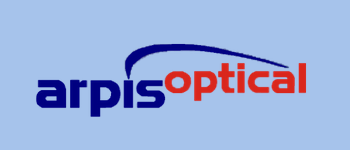
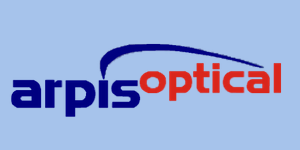
Adding new pages
Adding:
3 new thumbnails

Update:
index - new portfolio buttons

Fixed:
Quandart.png - wrong size
Arpis.png - wrong size

Changed region(s): [[0.03, 0.2933, 0.96, 0.8], [0.45, 0.32, 0.48, 0.3467]]

diff --git a/index.html b/index.html
@@ -214,8 +214,6 @@
                             <a href="http://www.arpis-optical.pl/" class="portfolio__item-www" target="_blank">WWW</a>
                             <a href="http://www.arpis-optical.pl/" class="portfolio__item-mobileLink"
                                 target="_blank"></a>
-                                                        <a href="https://github.com/tomkutnik/arpis#readme" class="portfolio__item-git"
-                                target="_blank">GIT</a>
                         </div>
                     </div>
                     <div class="portfolio__item portfolio__idea">
@@ -225,6 +223,36 @@
                             <a href="https://github.com/tomkutnik/rome" class="portfolio__item-git"
                                 target="_blank">GIT</a>
                             <a href="https://tomkutnik.github.io/rome/" class="portfolio__item-mobileLink"
+                                target="_blank"></a>
+                        </div>
+                    </div>
+                    <div class="portfolio__item portfolio__idea">
+                        <div class="portfolio__item-img"><img src="./src/thumbnails/wwSwap.png" />
+                            <a href="https://tomkutnik.github.io/wordWorldStart/" class="portfolio__item-www"
+                                target="_blank">WWW</a>
+                            <a href="https://github.com/tomkutnik/wordWorldStart" class="portfolio__item-git"
+                                target="_blank">GIT</a>
+                            <a href="https://tomkutnik.github.io/wordWorldStart/" class="portfolio__item-mobileLink"
+                                target="_blank"></a>
+                        </div>
+                    </div>
+                    \<div class="portfolio__item portfolio__idea">
+                        <div class="portfolio__item-img"><img src="./src/thumbnails/shoppingList.png" />
+                            <a href="https://tomkutnik.github.io/shoppingList/" class="portfolio__item-www"
+                                target="_blank">WWW</a>
+                            <a href="https://github.com/tomkutnik/shoppingList" class="portfolio__item-git"
+                                target="_blank">GIT</a>
+                            <a href="https://tomkutnik.github.io/shoppingList/" class="portfolio__item-mobileLink"
+                                target="_blank"></a>
+                        </div>
+                    </div>
+                    <div class="portfolio__item portfolio__idea">
+                        <div class="portfolio__item-img"><img src="./src/thumbnails/wordWorld.png" />
+                            <a href="https://tomkutnik.github.io/wordWorld/" class="portfolio__item-www"
+                                target="_blank">WWW</a>
+                            <a href="https://github.com/tomkutnik/wordWorld" class="portfolio__item-git"
+                                target="_blank">GIT</a>
+                            <a href="https://tomkutnik.github.io/wordWorld/" class="portfolio__item-mobileLink"
                                 target="_blank"></a>
                         </div>
                     </div>
